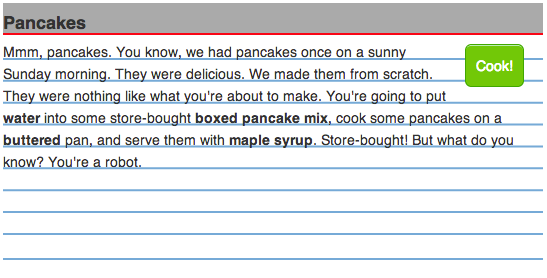
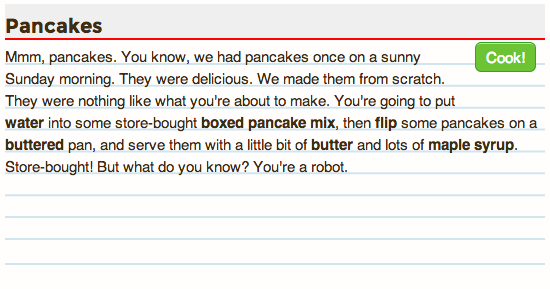
Updated recipe cards and text on recipe book.

diff --git a/basic-bp/recipebook.html b/basic-bp/recipebook.html
@@ -168,7 +168,7 @@
 		    		<div>
 		   				<a href='game-screen.html#Ramen'><span class="floatRight greenButton playButton">Cook!</span> </a>
 			    		
-			    		<p>We heard that the overlord has been taking some night classes and is reminiscing from his days as a college student. We think he might be in the mood for some instant ramen. Surely a robot like you can handle it? Cook <strong>ramen noodles</strong> in a pot of <strong>boiling water</strong> to serve to your human overlord. There's nothing like a hot bowl of ramen to boost up his energy!
+			    		<p>We heard that the overlord has been taking some night classes and is reminiscing on his days as a college student. We think he might be in the mood for some instant ramen. Surely a robot like you can handle it? Cook <strong>ramen noodles</strong> in a pot of boiling <strong> water</strong> to serve to your human overlord. There's nothing like a hot bowl of ramen to boost up his energy!
 			    		</p>
 
 					</div>
@@ -176,7 +176,14 @@
 					<h4>Pancakes</h4>
 		    		<div>
 		   				<a href='game-screen.html#Pancakes'><span class="floatRight greenButton playButton">Cook!</span></a>
-				    	<p>Mmm, pancakes. You know, we had pancakes once on a sunny Sunday morning. They were delicious. We made them from scratch. They were nothing like what you're about to make. You're going to put <strong>water</strong> into some store-bought <strong>boxed pancake mix</strong>, cook some pancakes on a <strong>buttered</strong> pan, and serve them with <strong>maple syrup</strong>. Store-bought! But what do you know? You're a robot.
+				    	<p>Mmm, pancakes. You know, we had pancakes once on a sunny Sunday morning. They were delicious. We made them from scratch. They were nothing like what you're about to make. You're going to put <strong>water</strong> into some store-bought <strong>boxed pancake mix</strong>, then <strong>flip</strong> some pancakes on a <strong>buttered</strong> pan, and serve them with a little bit of <strong>butter</strong> and lots of <strong>maple syrup</strong>. Store-bought! But what do you know? You're a robot.
+				    	</p>
+					</div>
+
+					<h4>Water</h4>
+		    		<div>
+		   				<span class="floatRight greenButton playButton">Cook!</span>
+				    	<p>What? It's water! What more do you want? But none of our cups are clean, so you can't pour us a glass of water yet.
 				    	</p>
 					</div>
 
@@ -190,7 +197,7 @@
 					<h4>Soup</h4>
 		    		<div>
 		   				<span class="floatRight greenButton playButton">Cook!</span>
-				    	<p>Maybe one day, you can try your robot hands at making soup.
+				    	<p>Maybe one day, you can try your robot hook hands at making soup.
 				    	</p>
 					</div>
 
@@ -199,14 +206,6 @@
 		    		<div>
 		   				<span class="floatRight greenButton playButton">Cook!</span>
 				    	<p>The key to hummus is tahini, a sesame seed paste. And garlic. And lemon. And... man, hummus is delicious.
-				    	</p>
-					</div>
-
-
-					<h4>Water</h4>
-		    		<div>
-		   				<span class="floatRight greenButton playButton">Cook!</span>
-				    	<p>What? It's water! What more do you want??
 				    	</p>
 					</div>
 				</div>
